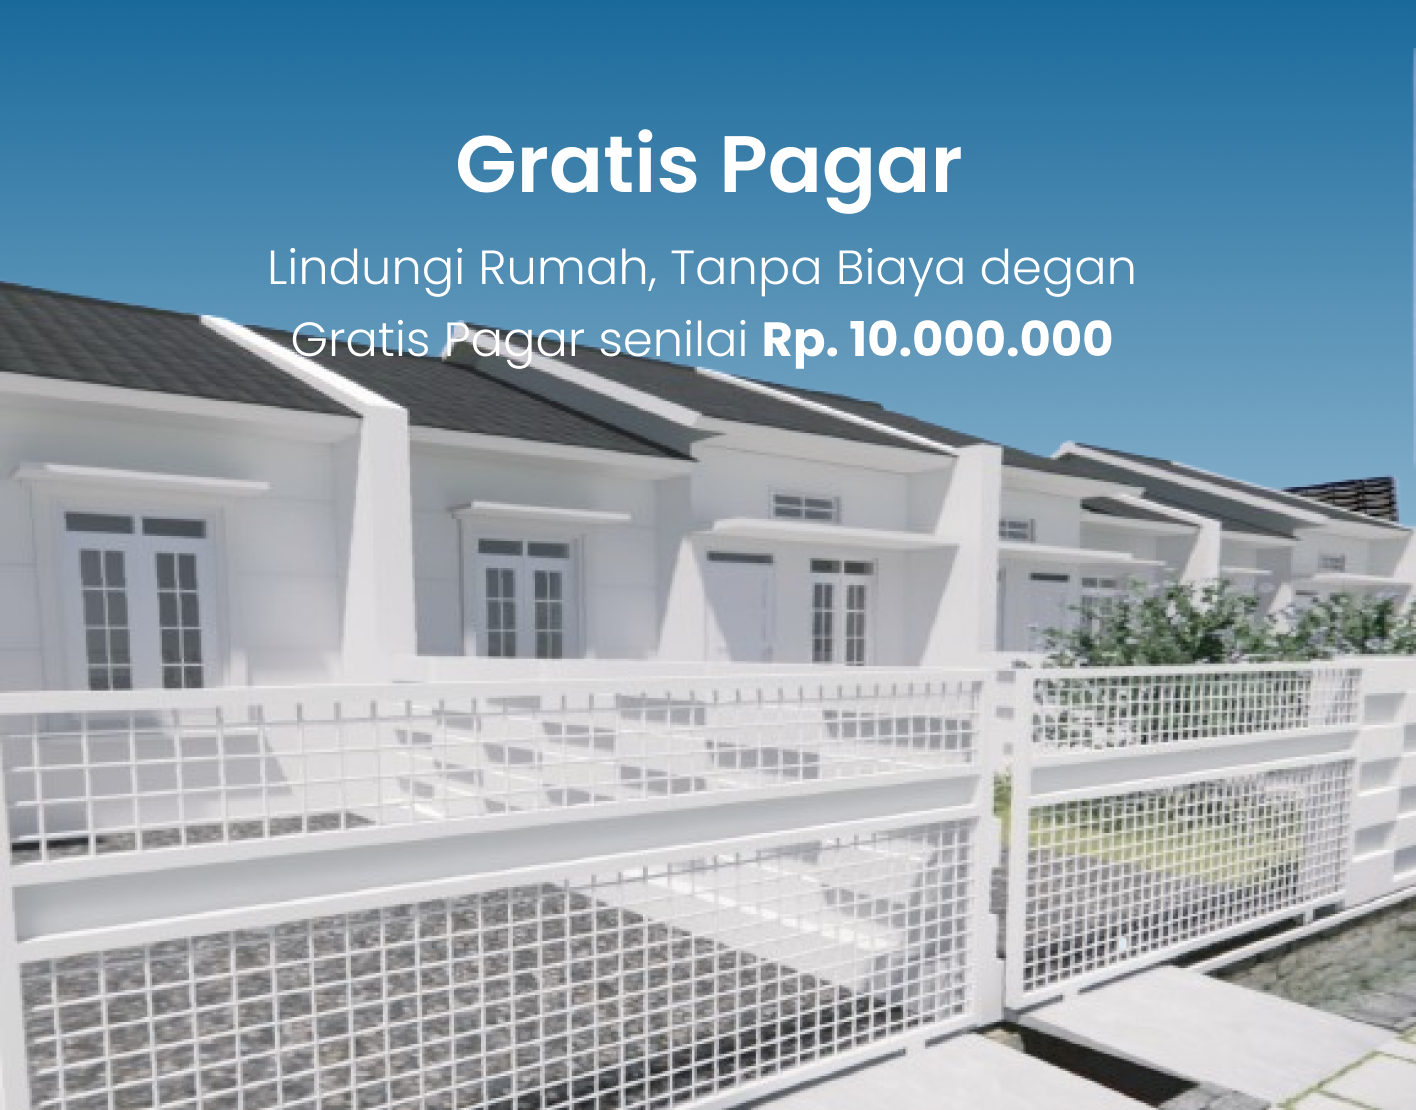
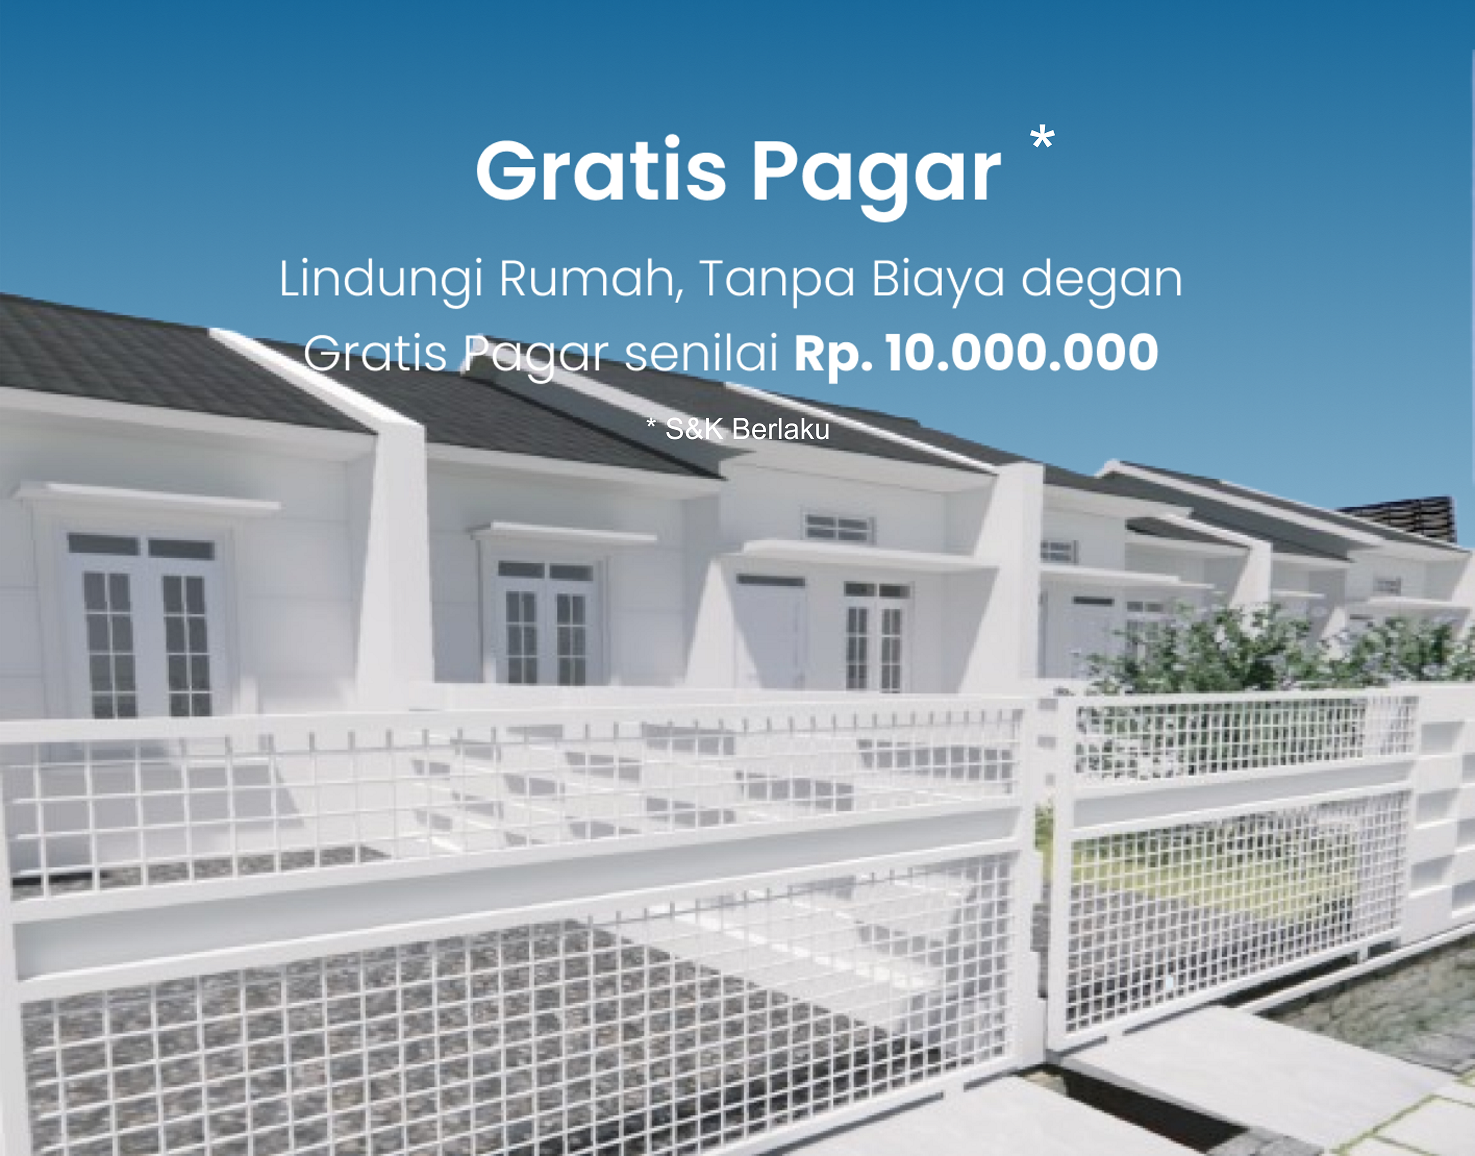
add s&k berlaku

diff --git a/resources/views/home.blade.php b/resources/views/home.blade.php
@@ -120,7 +120,7 @@
             </div>
         </div>
     </div>
-
+    @
     <div class="slider-gallery-container mt-3" data-aos="fade-down">
         <div class="container-fluid">
             <div class="row">
